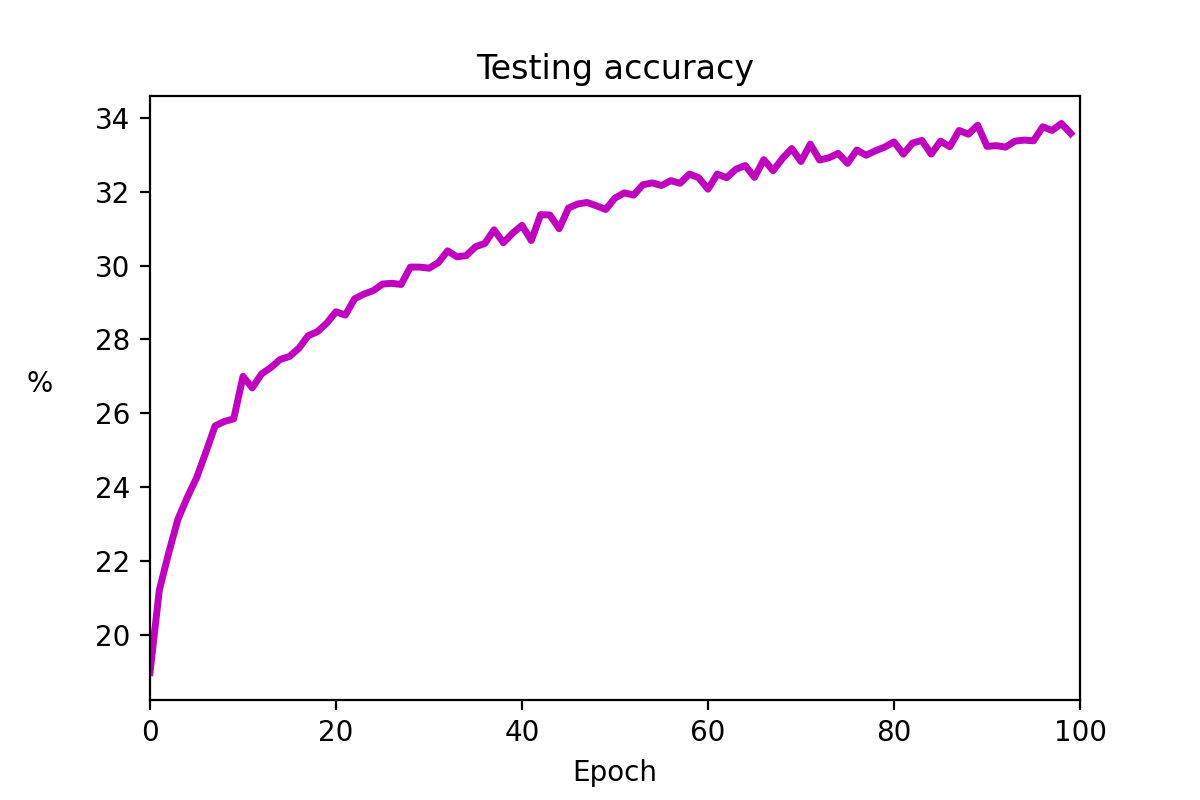
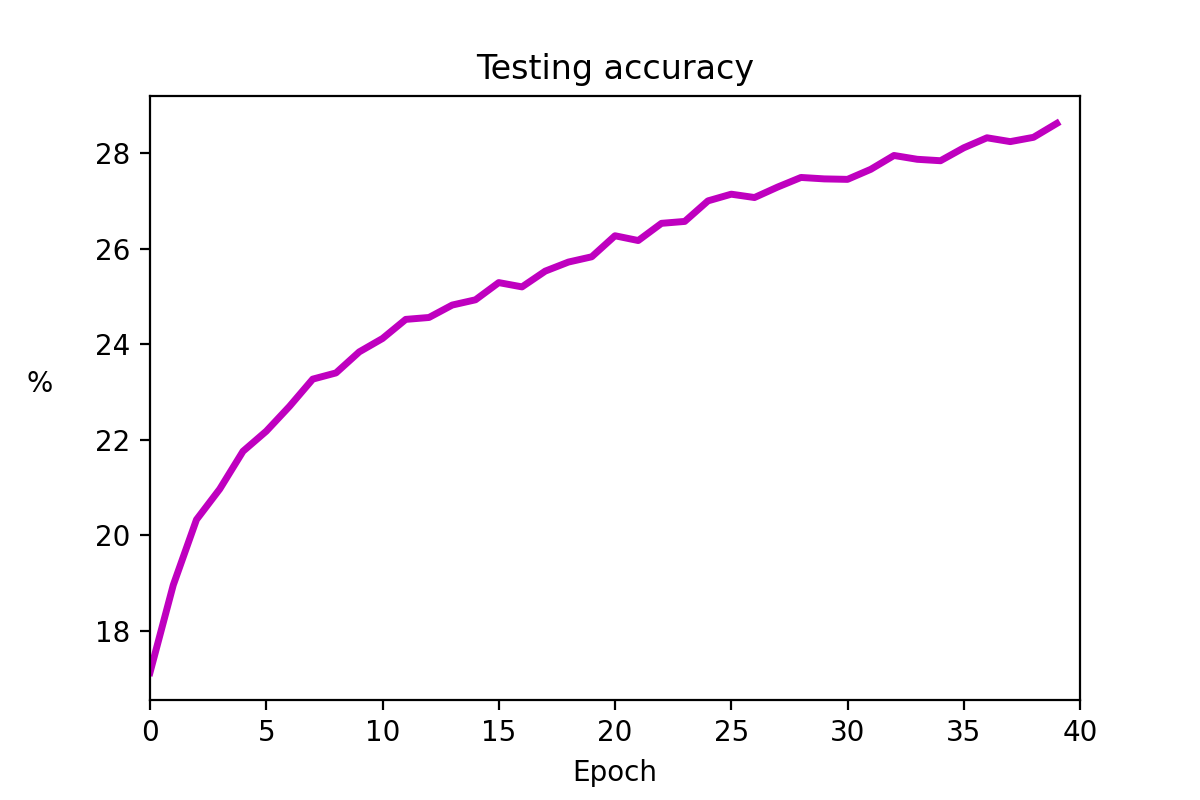
added model.MAT export

diff --git a/a1/functions.py b/a1/functions.py
@@ -1,0 +1,96 @@
+import numpy as np
+import pickle
+import matplotlib.pyplot as plt
+ 
+ 
+def softmax(x):
+    """ Standard definition of the softmax function """
+    return np.exp(x) / np.sum(np.exp(x), axis=0)
+ 
+ 
+def load_batch(filename):
+    """ Copied from the dataset website """
+    with open('Datasets/' + filename, 'rb') as fo:
+        dataset_dict = pickle.load(fo, encoding='bytes')
+ 
+    return dataset_dict
+ 
+ 
+def compute_grads_num(X, Y, P, W, b, lamda, h):
+    """ Converted from matlab code """
+    no = W.shape[0]
+    # d = X.shape[0]
+ 
+    grad_w = np.zeros(W.shape)
+    grad_b = np.zeros((no, 1))
+ 
+    c = compute_cost(X, Y, W, b, lamda)
+ 
+    for i in range(len(b)):
+        b_try = np.array(b)
+        b_try[i] += h
+        c2 = compute_cost(X, Y, W, b_try, lamda)
+        grad_b[i] = (c2 - c) / h
+ 
+    for i in range(W.shape[0]):
+        for j in range(W.shape[1]):
+            w_try = np.array(W)
+            w_try[i, j] += h
+            c2 = compute_cost(X, Y, w_try, b, lamda)
+            grad_w[i, j] = (c2 - c) / h
+ 
+    return [grad_w, grad_b]
+ 
+ 
+def compute_grads_num_slow(X, Y, P, W, b, lamda, h):
+    """ Converted from matlab code """
+    no = W.shape[0]
+    # d = X.shape[0]
+ 
+    grad_w = np.zeros(W.shape)
+    grad_b = np.zeros((no, 1))
+ 
+    for i in range(len(b)):
+        b_try = np.array(b)
+        b_try[i] -= h
+        c1 = compute_cost(X, Y, W, b_try, lamda)
+ 
+        b_try = np.array(b)
+        b_try[i] += h
+        c2 = compute_cost(X, Y, W, b_try, lamda)
+ 
+        grad_b[i] = (c2 - c1) / (2 * h)
+ 
+    for i in range(W.shape[0]):
+        for j in range(W.shape[1]):
+            w_try = np.array(W)
+            w_try[i, j] -= h
+            c1 = compute_cost(X, Y, w_try, b, lamda)
+ 
+            w_try = np.array(W)
+            w_try[i, j] += h
+            c2 = compute_cost(X, Y, w_try, b, lamda)
+ 
+            grad_w[i, j] = (c2 - c1) / (2 * h)
+ 
+    return [grad_w, grad_b]
+ 
+ 
+def montage(W):
+    """ Display the image for each label in W """
+    fig, ax = plt.subplots(2, 5)
+    for i in range(2):
+        for j in range(5):
+            im = W[i * 5 + j, :].reshape(32, 32, 3, order='F')
+            sim = (im - np.min(im[:])) / (np.max(im[:]) - np.min(im[:]))
+            sim = sim.transpose(1, 0, 2)
+            ax[i][j].imshow(sim, interpolation='nearest')
+            ax[i][j].set_title("y=" + str(5 * i + j))
+            ax[i][j].axis('off')
+    plt.show()
+ 
+ 
+def save_as_mat(data, name="model"):
+    """ Used to transfer a python model to matlab """
+    import scipy.io as sio
+    sio.savemat(f'{name}.mat', {"name": "b"})

diff --git a/a1/main.py b/a1/main.py
@@ -5,12 +5,13 @@ import matplotlib.pyplot as plt
 
 # get files
 from model import linearClassifier
-from misc import getCifar, getWeightImg
+from misc import getCifar, getWeightImg, saveAsMat
 
 # define paths
 home_path = os.path.dirname(os.getcwd())
 data_path = home_path + '\\data\\a1\\'
 plot_path = home_path + '\\a1\\plots\\'
+model_path = home_path + '\\a1\\models\\'
 
 # get data
 X_train, k_train, Y_train = getCifar(data_path, 'data_batch_1')
@@ -54,11 +55,11 @@ linearModel = linearClassifier(
 # print(W_gradDiffMax, b_gradDiffMax)
 
 ### train model
-version     = 'v7'
-lambd       = 0.5
+version     = 'v2'
+lambd       = 0.0
 eta         = .001
-n_batch     = 50
-n_epochs    = 100
+n_batch     = 100
+n_epochs    = 40
 
 # create lists for storing results
 trainLoss, valLoss, trainCost, valCost, testAcc = [], [], [], [], []
@@ -155,3 +156,7 @@ for img, ax in zip(wImgs, axs.flatten()):
 
 plt.savefig(plot_path + 'weights_{}.png'.format(version), bbox_inches='tight', dpi=500)
 plt.show()
+
+# save MODEL
+# saveAsMat(linearModel.W, model_path + 'model_{}_W'.format(version))
+# saveAsMat(linearModel.b, model_path + 'model_{}_b'.format(version))

diff --git a/a1/final.py b/a1/final.py
@@ -1,6 +1,7 @@
 
 import os
 import pickle
+import scipy.io as sio
 import numpy as np
 import matplotlib.pyplot as plt
 
@@ -31,6 +32,10 @@ def oneHotEncode(k: np.array) -> np.array:
         1 if idx == label else 0 for idx in range(10)]
          for label in k]
     )
+
+def saveAsMat(data, name="model"):
+    """ Used to transfer a python model to matlab """
+    sio.savemat(f'{name}.mat', {"name": "b"})
 
 def getCifar(
         fpath: str, 
@@ -315,6 +320,7 @@ def main():
     home_path = os.path.dirname(os.getcwd())
     data_path = home_path + '\\data\\a1\\'
     plot_path = home_path + '\\a1\\plots\\'
+    model_path = home_path + '\\a1\\models\\'
     
     # get data
     X_train, k_train, Y_train = getCifar(data_path, 'data_batch_1')
@@ -460,6 +466,10 @@ def main():
     
     #plt.savefig(plot_path + 'weights_{}.png'.format(version), dpi=500)
     plt.show()
+    
+    # save MODEL
+    # saveAsMat(linearModel.W, model_path + 'model_{}_W'.format(version))
+    # saveAsMat(linearModel.b, model_path + 'model_{}_b'.format(version))
     
 if __name__ == '__main__':
     main()

diff --git a/a1/misc.py b/a1/misc.py
@@ -1,6 +1,7 @@
 
 import numpy as np
 import pickle
+import scipy.io as sio
 
 def softMax(S: np.array) -> np.array:
     """
@@ -29,6 +30,10 @@ def oneHotEncode(k: np.array) -> np.array:
         1 if idx == label else 0 for idx in range(10)]
          for label in k]
     )
+
+def saveAsMat(data, name="model"):
+    """ Used to transfer a python model to matlab """
+    sio.savemat(f'{name}.mat', {"name": "b"})
 
 def getCifar(
         fpath: str, 
